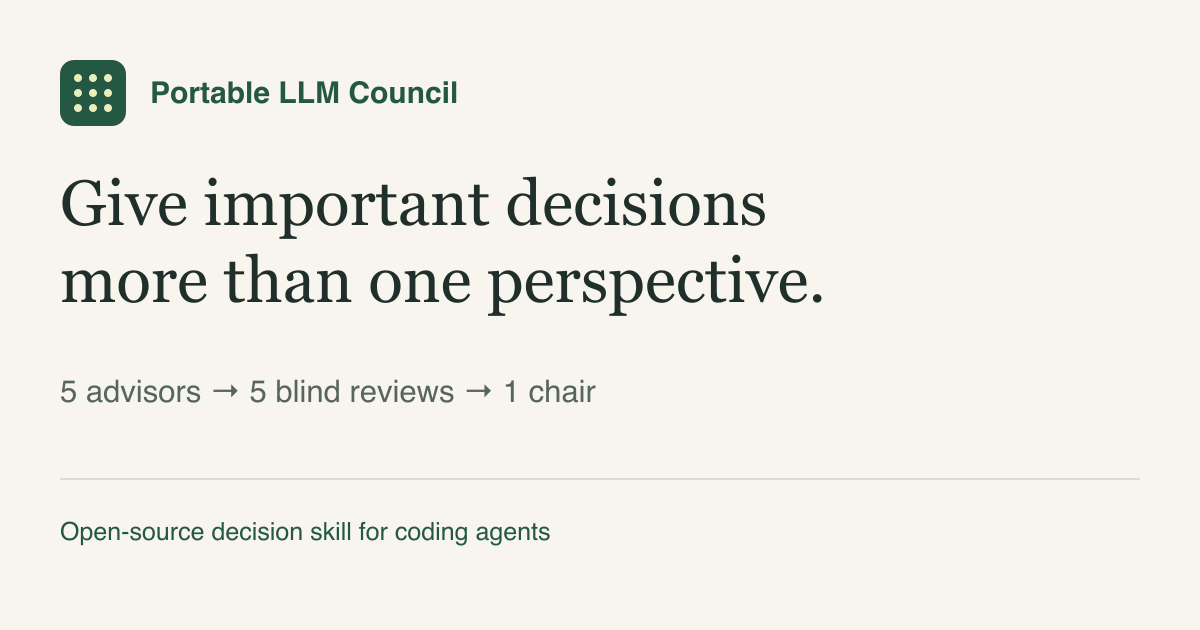
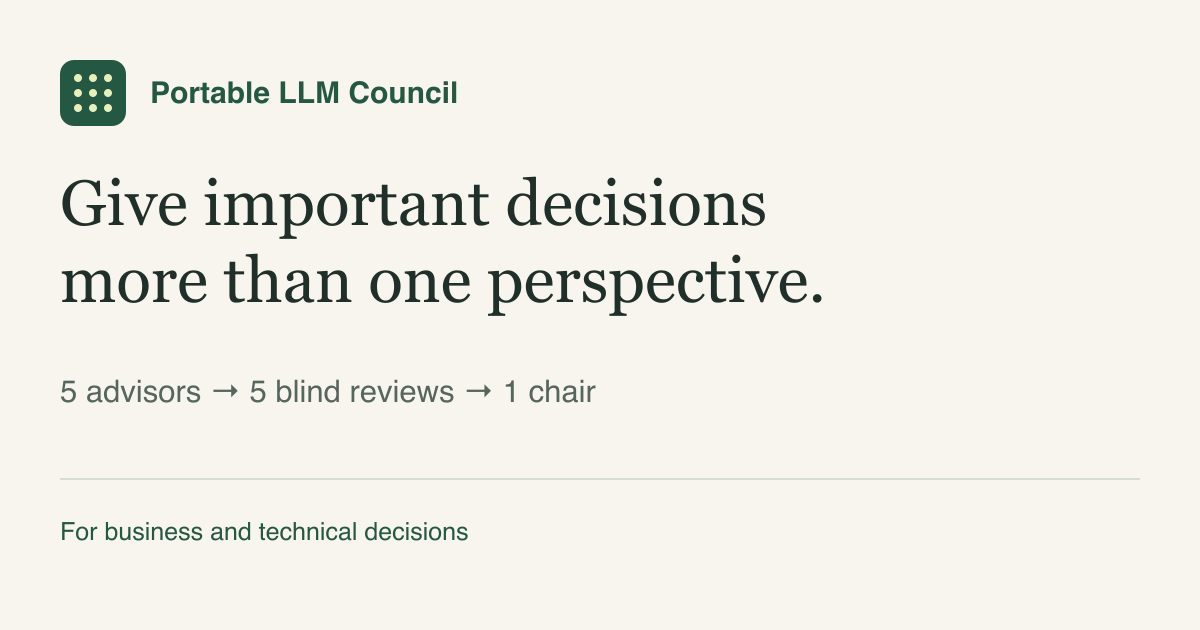
Clarify business decision purpose and OpenAI adapter scope

Changed region(s): [[0.0308, 0.8143, 0.4625, 0.8746]]

diff --git a/site/templates/get-started/index.html b/site/templates/get-started/index.html
@@ -1,6 +1,6 @@
-<!doctype html><html lang="en"><head><meta charset="utf-8"><meta name="viewport" content="width=device-width,initial-scale=1"><meta name="description" content="Install Portable LLM Council and give it a decision with objectives, evidence, and constraints."><title>Get started · Portable LLM Council</title><link rel="stylesheet" href="../assets/style.css"><script src="../assets/site.js" defer></script><link rel="canonical" href="https://goolamabbas.github.io/portable-llm-council/get-started/"><link rel="icon" href="../assets/favicon.svg" type="image/svg+xml"><meta property="og:type" content="website"><meta property="og:title" content="Get started · Portable LLM Council"><meta property="og:description" content="Install Portable LLM Council and give it a decision with objectives, evidence, and constraints."><meta property="og:url" content="https://goolamabbas.github.io/portable-llm-council/get-started/"><meta property="og:image" content="https://goolamabbas.github.io/portable-llm-council/assets/social-card.png"><meta property="og:image:width" content="1200"><meta property="og:image:height" content="630"><meta property="og:image:alt" content="Portable LLM Council: five advisors, five blind reviews, one chair."><meta name="twitter:card" content="summary_large_image"></head><body><a class="skip" href="#main">Skip to content</a><header><div class="wrap"><a class="brand" href="../"><span class="mark" aria-hidden="true"><i></i><i></i><i></i><i></i><i></i><i></i><i></i><i></i><i></i></span>Portable LLM Council</a><nav aria-label="Main navigation"><a  href="../sample/">Example run</a><a aria-current="page" href="../get-started/">Get started</a></nav></div></header><main id="main"><div class="wrap reading"><section class="subhero"><p><a href="../">← Back to overview</a></p><div class="eyebrow">Get started</div><h1>Install the council.<br>Bring a decision.</h1><p class="lead">Install the shared skill and the native roles for your coding agent, then ask the council to examine a decision that matters to you.</p></section><div class="steps"><section class="step"><div class="eyebrow">01 · Choose your coding agent</div><h2>Use the tools you already work in.</h2><p>Install the shared skill and the three roles for your coding agent: advisor, reviewer, and chair. Read its execution notes here.</p><div class="agent-links"><a href="https://github.com/goolamabbas/portable-llm-council/blob/main/llm-council/references/codex.md" target="_blank" rel="noopener noreferrer">Codex ↗ <span class="sr-only">(opens in a new tab)</span></a><a href="https://github.com/goolamabbas/portable-llm-council/blob/main/llm-council/references/cursor.md" target="_blank" rel="noopener noreferrer">Cursor ↗ <span class="sr-only">(opens in a new tab)</span></a><a href="https://github.com/goolamabbas/portable-llm-council/blob/main/llm-council/references/commandcode.md" target="_blank" rel="noopener noreferrer">Command Code ↗ <span class="sr-only">(opens in a new tab)</span></a><a href="https://github.com/goolamabbas/portable-llm-council/blob/main/llm-council/references/grok-build.md" target="_blank" rel="noopener noreferrer">Grok Build ↗ <span class="sr-only">(opens in a new tab)</span></a><a href="https://github.com/goolamabbas/portable-llm-council/blob/main/llm-council/references/opencode.md" target="_blank" rel="noopener noreferrer">OpenCode ↗ <span class="sr-only">(opens in a new tab)</span></a><a href="https://github.com/goolamabbas/portable-llm-council/blob/main/llm-council/references/factory-droid.md" target="_blank" rel="noopener noreferrer">Factory Droid ↗ <span class="sr-only">(opens in a new tab)</span></a><a href="https://github.com/goolamabbas/portable-llm-council/blob/main/llm-council/references/claude.md" target="_blank" rel="noopener noreferrer">Claude Code ↗ <span class="sr-only">(opens in a new tab)</span></a></div><p class="caption">Claude support covers Claude Code and local Code sessions in Claude Desktop. Claude Chat and Cowork are outside this installation scope. Versions and settings can affect execution.</p></section>
-<section class="step"><div class="eyebrow">02 · Install</div><h2>Ask your assistant to set it up.</h2><p>Paste this into your supported coding agent.</p><div class="codebox"><button type="button" class="copy" data-copy="install">Copy prompt</button><span class="copy-status" role="status" aria-live="polite"></span><pre id="install">{{INSTALL_PROMPT}}</pre></div><p>Your assistant may request permission to change installation files. A new session may be needed before the skill and roles are discoverable.</p><a href="https://github.com/goolamabbas/portable-llm-council#install-the-shared-skill-once" target="_blank" rel="noopener noreferrer">Prefer manual installation? Follow the maintained instructions ↗ <span class="sr-only">(opens in a new tab)</span></a></section>
-<section class="step"><div class="eyebrow">03 · Check discovery</div><h2>Confirm the skill and roles are discoverable.</h2><div class="codebox"><button type="button" class="copy" data-copy="check">Copy prompt</button><span class="copy-status" role="status" aria-live="polite"></span><pre id="check">{{DISCOVERY_PROMPT}}</pre></div><p>Files being present does not establish that the coding agent can use them. Confirm discovery before starting a full council. Discovery alone does not verify successful execution.</p></section>
+<!doctype html><html lang="en"><head><meta charset="utf-8"><meta name="viewport" content="width=device-width,initial-scale=1"><meta name="description" content="Install Portable LLM Council and give it a decision with objectives, evidence, and constraints."><title>Get started · Portable LLM Council</title><link rel="stylesheet" href="../assets/style.css"><script src="../assets/site.js" defer></script><link rel="canonical" href="https://goolamabbas.github.io/portable-llm-council/get-started/"><link rel="icon" href="../assets/favicon.svg" type="image/svg+xml"><meta property="og:type" content="website"><meta property="og:title" content="Get started · Portable LLM Council"><meta property="og:description" content="Install Portable LLM Council and give it a decision with objectives, evidence, and constraints."><meta property="og:url" content="https://goolamabbas.github.io/portable-llm-council/get-started/"><meta property="og:image" content="https://goolamabbas.github.io/portable-llm-council/assets/social-card.png"><meta property="og:image:width" content="1200"><meta property="og:image:height" content="630"><meta property="og:image:alt" content="Portable LLM Council: five advisors, five blind reviews, one chair."><meta name="twitter:card" content="summary_large_image"></head><body><a class="skip" href="#main">Skip to content</a><header><div class="wrap"><a class="brand" href="../"><span class="mark" aria-hidden="true"><i></i><i></i><i></i><i></i><i></i><i></i><i></i><i></i><i></i></span>Portable LLM Council</a><nav aria-label="Main navigation"><a  href="../sample/">Example run</a><a aria-current="page" href="../get-started/">Get started</a></nav></div></header><main id="main"><div class="wrap reading"><section class="subhero"><p><a href="../">← Back to overview</a></p><div class="eyebrow">Get started</div><h1>Install the council.<br>Bring a decision.</h1><p class="lead">Install the shared skill and the native roles for your AI assistant, then ask the council to examine a decision that matters to you.</p></section><div class="steps"><section class="step"><div class="eyebrow">01 · Choose your AI assistant</div><h2>Use the tools you already work in.</h2><p>Install the shared skill and the three roles for your AI assistant: advisor, reviewer, and chair. Read its execution notes here.</p><div class="agent-links"><a href="https://github.com/goolamabbas/portable-llm-council/blob/main/llm-council/references/codex.md" target="_blank" rel="noopener noreferrer">Codex ↗ <span class="sr-only">(opens in a new tab)</span></a><a href="https://github.com/goolamabbas/portable-llm-council/blob/main/llm-council/references/cursor.md" target="_blank" rel="noopener noreferrer">Cursor ↗ <span class="sr-only">(opens in a new tab)</span></a><a href="https://github.com/goolamabbas/portable-llm-council/blob/main/llm-council/references/commandcode.md" target="_blank" rel="noopener noreferrer">Command Code ↗ <span class="sr-only">(opens in a new tab)</span></a><a href="https://github.com/goolamabbas/portable-llm-council/blob/main/llm-council/references/grok-build.md" target="_blank" rel="noopener noreferrer">Grok Build ↗ <span class="sr-only">(opens in a new tab)</span></a><a href="https://github.com/goolamabbas/portable-llm-council/blob/main/llm-council/references/opencode.md" target="_blank" rel="noopener noreferrer">OpenCode ↗ <span class="sr-only">(opens in a new tab)</span></a><a href="https://github.com/goolamabbas/portable-llm-council/blob/main/llm-council/references/factory-droid.md" target="_blank" rel="noopener noreferrer">Factory Droid ↗ <span class="sr-only">(opens in a new tab)</span></a><a href="https://github.com/goolamabbas/portable-llm-council/blob/main/llm-council/references/claude.md" target="_blank" rel="noopener noreferrer">Claude Code ↗ <span class="sr-only">(opens in a new tab)</span></a></div><p class="caption"><strong>Codex:</strong> use Codex workflows in the ChatGPT desktop app, CLI, or IDE extension. <strong>ChatGPT Work:</strong> subagent workflows are documented, but this package’s installation, role discovery, and complete council execution there remain unverified. See the <a href="https://learn.chatgpt.com/docs/agent-configuration/subagents?surface=app">OpenAI subagent documentation</a>.</p><p class="caption">Claude support covers Claude Code and local Code sessions in Claude Desktop. Claude Chat and Cowork are outside this installation scope. Versions and settings can affect execution.</p></section>
+<section class="step"><div class="eyebrow">02 · Install</div><h2>Ask your assistant to set it up.</h2><p>Paste this into your supported AI assistant.</p><div class="codebox"><button type="button" class="copy" data-copy="install">Copy prompt</button><span class="copy-status" role="status" aria-live="polite"></span><pre id="install">{{INSTALL_PROMPT}}</pre></div><p>Your assistant may request permission to change installation files. A new session may be needed before the skill and roles are discoverable.</p><a href="https://github.com/goolamabbas/portable-llm-council#install-the-shared-skill-once" target="_blank" rel="noopener noreferrer">Prefer manual installation? Follow the maintained instructions ↗ <span class="sr-only">(opens in a new tab)</span></a></section>
+<section class="step"><div class="eyebrow">03 · Check discovery</div><h2>Confirm the skill and roles are discoverable.</h2><div class="codebox"><button type="button" class="copy" data-copy="check">Copy prompt</button><span class="copy-status" role="status" aria-live="polite"></span><pre id="check">{{DISCOVERY_PROMPT}}</pre></div><p>Files being present does not establish that the AI assistant can use them. Confirm discovery before starting a full council. Discovery alone does not verify successful execution.</p></section>
 <section class="step"><div class="eyebrow">04 · Give it your decision</div><h2>A good brief gives every perspective something to examine.</h2><div class="codebox"><button type="button" class="copy" data-copy="decision">Copy prompt</button><span class="copy-status" role="status" aria-live="polite"></span><pre id="decision">Use the llm-council skill to evaluate this decision.
 
 Decision: [What must I decide, and by when?]

diff --git a/site/templates/index.html b/site/templates/index.html
@@ -1,9 +1,9 @@
-<!doctype html><html lang="en"><head><meta charset="utf-8"><meta name="viewport" content="width=device-width,initial-scale=1"><meta name="description" content="Examine the tradeoffs behind an important business or technical decision with five perspectives, blind review, and reasoning you can inspect."><title>Portable LLM Council — multi-advisor decision review for coding agents</title><link rel="stylesheet" href="./assets/style.css"><script src="./assets/site.js" defer></script><link rel="canonical" href="https://goolamabbas.github.io/portable-llm-council/"><link rel="icon" href="./assets/favicon.svg" type="image/svg+xml"><meta property="og:type" content="website"><meta property="og:title" content="Portable LLM Council — multi-advisor decision review for coding agents"><meta property="og:description" content="Examine the tradeoffs behind an important business or technical decision with five perspectives, blind review, and reasoning you can inspect."><meta property="og:url" content="https://goolamabbas.github.io/portable-llm-council/"><meta property="og:image" content="https://goolamabbas.github.io/portable-llm-council/assets/social-card.png"><meta property="og:image:width" content="1200"><meta property="og:image:height" content="630"><meta property="og:image:alt" content="Portable LLM Council: five advisors, five blind reviews, one chair."><meta name="twitter:card" content="summary_large_image"></head><body><a class="skip" href="#main">Skip to content</a><header><div class="wrap"><a class="brand" href="./"><span class="mark" aria-hidden="true"><i></i><i></i><i></i><i></i><i></i><i></i><i></i><i></i><i></i></span>Portable LLM Council</a><nav aria-label="Main navigation"><a  href="./sample/">Example run</a><a  href="./get-started/">Get started</a></nav></div></header><main id="main"><div class="wrap">
+<!doctype html><html lang="en"><head><meta charset="utf-8"><meta name="viewport" content="width=device-width,initial-scale=1"><meta name="description" content="Examine the tradeoffs behind an important business or technical decision with five perspectives, blind review, and reasoning you can inspect."><title>Portable LLM Council — business and technical decision review</title><link rel="stylesheet" href="./assets/style.css"><script src="./assets/site.js" defer></script><link rel="canonical" href="https://goolamabbas.github.io/portable-llm-council/"><link rel="icon" href="./assets/favicon.svg" type="image/svg+xml"><meta property="og:type" content="website"><meta property="og:title" content="Portable LLM Council — business and technical decision review"><meta property="og:description" content="Examine the tradeoffs behind an important business or technical decision with five perspectives, blind review, and reasoning you can inspect."><meta property="og:url" content="https://goolamabbas.github.io/portable-llm-council/"><meta property="og:image" content="https://goolamabbas.github.io/portable-llm-council/assets/social-card.png"><meta property="og:image:width" content="1200"><meta property="og:image:height" content="630"><meta property="og:image:alt" content="Portable LLM Council: five advisors, five blind reviews, one chair."><meta name="twitter:card" content="summary_large_image"></head><body><a class="skip" href="#main">Skip to content</a><header><div class="wrap"><a class="brand" href="./"><span class="mark" aria-hidden="true"><i></i><i></i><i></i><i></i><i></i><i></i><i></i><i></i><i></i></span>Portable LLM Council</a><nav aria-label="Main navigation"><a  href="./sample/">Example run</a><a  href="./get-started/">Get started</a></nav></div></header><main id="main"><div class="wrap">
 <section class="hero hero-grid">
-<div><div class="eyebrow">Open-source decision skill for coding agents</div>
+<div><div class="eyebrow">Open-source skill for business and technical decisions</div>
 <h1 class="rationale-heading">Has your AI examined the tradeoffs—or followed your framing?</h1>
-<p class="lead">Portable LLM Council sends your decision to five advisors, five blind reviewers, and a chair. You get a recommendation with its reasoning and disagreements.</p>
-<p class="platforms">Adapters for Claude Code, Codex, Cursor, Command Code, Grok Build, OpenCode, and Factory Droid.</p>
+<p class="lead">Examine decisions about pricing, hiring, product direction, operations, or technology through five advisor perspectives, blind review, and a chair’s recommendation.</p>
+<p>Runs in supported AI assistants with subagent capabilities. Adapters connect the same decision-making method to each assistant.</p><p class="platforms">Adapters for Claude Code, Codex, Cursor, Command Code, Grok Build, OpenCode, and Factory Droid.</p>
 <div class="actions"><a class="button" href="get-started/">Get started →</a><a class="button secondary" href="sample/">See a real run</a></div>
 <a href="#how-it-works">See how it works ↓</a></div>
 <aside class="flow" aria-label="Council workflow"><div class="eyebrow">One decision, three rounds</div><ol>
@@ -50,12 +50,12 @@
 <p>For routine questions, a direct answer may be enough. When a small experiment can resolve the uncertainty, that experiment may be the more useful next step.</p></div>
 <div><h3>Keep the limits in view</h3>
 <p>Different perspectives do not create independent factual evidence. Agreement does not establish truth, and anonymous labels cannot conceal every stylistic clue.</p>
-<p>A full council uses 11 agent runs, which can take more time and tokens than a direct answer. Results depend on the model, the decision brief, and the coding agent’s ability to maintain separate worker contexts. If a required round cannot finish, the result should be marked incomplete.</p></div></section>
+<p>A full council uses 11 agent runs, which can take more time and tokens than a direct answer. Results depend on the model, the decision brief, and the AI assistant’s ability to maintain separate worker contexts. If a required round cannot finish, the result should be marked incomplete.</p></div></section>
 <section class="section"><div class="tagline"><div class="eyebrow" style="color:#d4e4b7">Bring your own decision</div>
-<h2>Run the same method in your coding agent.</h2>
+<h2>Bring your next decision to the council.</h2>
 <p>Portable LLM Council combines one shared skill with native agent definitions for Codex, Cursor, Command Code, Grok Build, OpenCode, Factory Droid, and Claude Code.</p>
-<p>The shared skill defines the method. The native definitions provide the advisor, reviewer, and chair roles for your coding agent. Together, they make the workflow reusable without having to assemble each assignment yourself.</p>
-<p>Choose your coding agent, follow its installation guidance, and verify discovery before your first run.</p>
+<p>The shared skill defines the method. The native definitions provide the advisor, reviewer, and chair roles for your AI assistant. Together, they make the workflow reusable without having to assemble each assignment yourself.</p>
+<p>Choose your AI assistant, follow its installation guidance, and verify discovery before your first run.</p>
 <div class="actions"><a class="button" href="get-started/">Get started →</a><a href="https://github.com/goolamabbas/portable-llm-council" target="_blank" rel="noopener noreferrer">Explore the repository ↗ <span class="sr-only">(opens in a new tab)</span></a></div>
 </div></section>
 </div></main><footer><div class="wrap"><div><p>Adapted from <a href="https://x.com/itsolelehmann/status/2038661433626333649">Ole Lehmann’s council workflow</a>, which draws on <a href="https://github.com/karpathy/llm-council">Andrej Karpathy’s LLM Council</a>. </p><p>By Yusuf Goolamabbas · MIT for the author’s contributions.</p></div><div class="footerlinks"><a href="https://github.com/goolamabbas/portable-llm-council/blob/main/docs/attribution.md" target="_blank" rel="noopener noreferrer">Credits & source terms ↗ <span class="sr-only">(opens in a new tab)</span></a><a href="https://github.com/goolamabbas/portable-llm-council/releases" target="_blank" rel="noopener noreferrer">Releases ↗ <span class="sr-only">(opens in a new tab)</span></a><a href="https://github.com/goolamabbas/portable-llm-council" target="_blank" rel="noopener noreferrer">Source ↗ <span class="sr-only">(opens in a new tab)</span></a></div></div></footer></body></html>

diff --git a/README.md b/README.md
@@ -4,7 +4,7 @@
 
 The repository is the maintained source for installation, releases, and the website. The [sample records](examples/workshop-or-course/) preserve a fictional scenario evaluated in an actual council run, together with its review notes. See [website maintenance](site/README.md) to regenerate the pages.
 
-One shared decision-making skill with native subagent definitions for **Codex, Cursor, Command Code, Grok Build, OpenCode, Factory Droid, and Claude Code**.
+One shared skill for business and technical decisions, with native subagent definitions for **Codex, Cursor, Command Code, Grok Build, OpenCode, Factory Droid, and Claude Code**.
 
 Five advisors examine a decision through different lenses, five fresh reviewers evaluate their anonymized answers, and a separate chair synthesizes a recommendation. The coordinator saves a self-contained HTML report and a Markdown transcript, including dispatch records, their capture status, and reviewer presentation orders.
 
@@ -56,7 +56,13 @@ The commands below install for your user account across projects. For availabili
 | Factory Droid | Same shared directory | `~/.factory/droids/` | [Droid notes](llm-council/references/factory-droid.md) |
 | Claude Code / Desktop local Code | `~/.claude/skills/llm-council/` | `~/.claude/agents/` | [Claude notes](llm-council/references/claude.md) |
 
-These are the current adapter targets; future releases may add more. Claude support covers Claude Code and local Code sessions in Claude Desktop. Cowork, ordinary Claude Chat, ordinary ChatGPT, and ordinary Grok chat are not supported installation targets. The maintainer has tested the council across the listed harnesses. Behavior can vary with harness versions, models, and settings; follow the installation check below in your own environment.
+These are the current adapter targets; future releases may add more. Claude support covers Claude Code and local Code sessions in Claude Desktop. Cowork, ordinary Claude Chat, and ordinary Grok chat are not supported installation targets. The maintainer has tested the council across the listed harnesses. Behavior can vary with harness versions, models, and settings; follow the installation check below in your own environment.
+
+### Codex and ChatGPT desktop
+
+The Codex adapter covers local Codex workflows in the ChatGPT desktop app, CLI, and IDE extension. Keep the Codex installation paths above; the app name does not change the native role format.
+
+OpenAI also documents subagent workflows in ChatGPT Work for eligible accounts. This package’s installation, custom-role discovery, and full council workflow in ChatGPT Work remain unverified. Hosted Work should not be assumed to load local `~/.codex/agents/` files. See [OpenAI’s subagent documentation](https://learn.chatgpt.com/docs/agent-configuration/subagents?surface=app).
 
 ### Ask your assistant to install
 
@@ -65,7 +71,7 @@ In a supported harness, you can ask the assistant to handle installation:
 ```text
 Read the installation instructions at
 https://github.com/goolamabbas/portable-llm-council
-and install the shared skill and the agent definitions for this coding agent
+and install the shared skill and the agent definitions for this AI assistant
 in my personal installation locations. Back up existing copies before
 replacing anything, then verify discovery. Do not run a council yet.
 ```
@@ -183,7 +189,7 @@ Start with this request:
 
 ```text
 Check whether you discover the llm-council skill and the three council roles
-for this coding agent. Report the resolved locations and effective model settings
+for this AI assistant. Report the resolved locations and effective model settings
 if available. Do not run a council yet.
 ```
 

diff --git a/llm-council/references/codex.md b/llm-council/references/codex.md
@@ -9,6 +9,6 @@ Use native subagent tools and inspect their live schema. Do not create separate 
 - **Role selection:** Use `council_advisor`, `council_reviewer`, or `council_chair` only when registered and selectable. Otherwise send the full assignment directly to a generic subagent. Files on disk do not establish registration.
 - **Settings:** Inherit model and reasoning settings unless the user requests otherwise. Do not edit global configuration to make a run possible. No subagent tools means this workflow is unavailable; there is no implicit single-agent simulation mode.
 
-These are compatibility notes, not a universal tool-call recipe. Adapt dispatch to the current Codex surface. Ordinary ChatGPT is outside this adapter's scope.
+These are compatibility notes, not a universal tool-call recipe. Adapt dispatch to the current Codex surface. This adapter targets local Codex workflows, including Codex in the ChatGPT desktop app, CLI, and IDE extension. ChatGPT Work also has documented subagent workflows for eligible accounts, but this package’s installation, custom-role discovery, and complete council execution there remain unverified. Do not assume hosted Work loads local `~/.codex/agents/` files. [OpenAI subagent availability](https://learn.chatgpt.com/docs/agent-configuration/subagents?surface=app)
 
 Sources checked 2026-09-27: [custom-agent schema](https://learn.chatgpt.com/docs/agent-configuration/subagents#custom-agent-file-schema). Runtime enforcement of the updated definitions remains unverified.

diff --git a/docs/release-notes-v0.2.5.md b/docs/release-notes-v0.2.5.md
@@ -1,0 +1,10 @@
+# Portable LLM Council v0.2.5
+
+Clarify the council’s business and technical purpose and its OpenAI installation scope.
+
+- Lead website copy and sharing imagery with pricing, hiring, product, operations, and technology decisions.
+- Use “AI assistant” in reader-facing installation guidance.
+- Explain Codex workflows in the ChatGPT desktop app, CLI, and IDE extension while keeping the Codex adapter and installation paths.
+- Describe ChatGPT Work subagents as documented capability awaiting package-specific installation and workflow validation.
+
+Council methodology and native agent definitions are unchanged. The Codex adapter documentation is updated; no new ChatGPT Work runtime compatibility is claimed.

diff --git a/CHANGELOG.md b/CHANGELOG.md
@@ -1,5 +1,11 @@
 # Changelog
 
+## 0.2.5 — 2026-09-28
+
+- Lead with business and technical decisions and use AI-assistant terminology.
+- Clarify Codex desktop/CLI/IDE scope and distinguish unverified ChatGPT Work package compatibility.
+- Update website sharing imagery and Codex adapter documentation; method and native roles unchanged.
+
 ## 0.2.4 — 2026-09-27
 
 - Allow deduplicated dispatch records with explicit capture status while retaining complete worker inputs.
